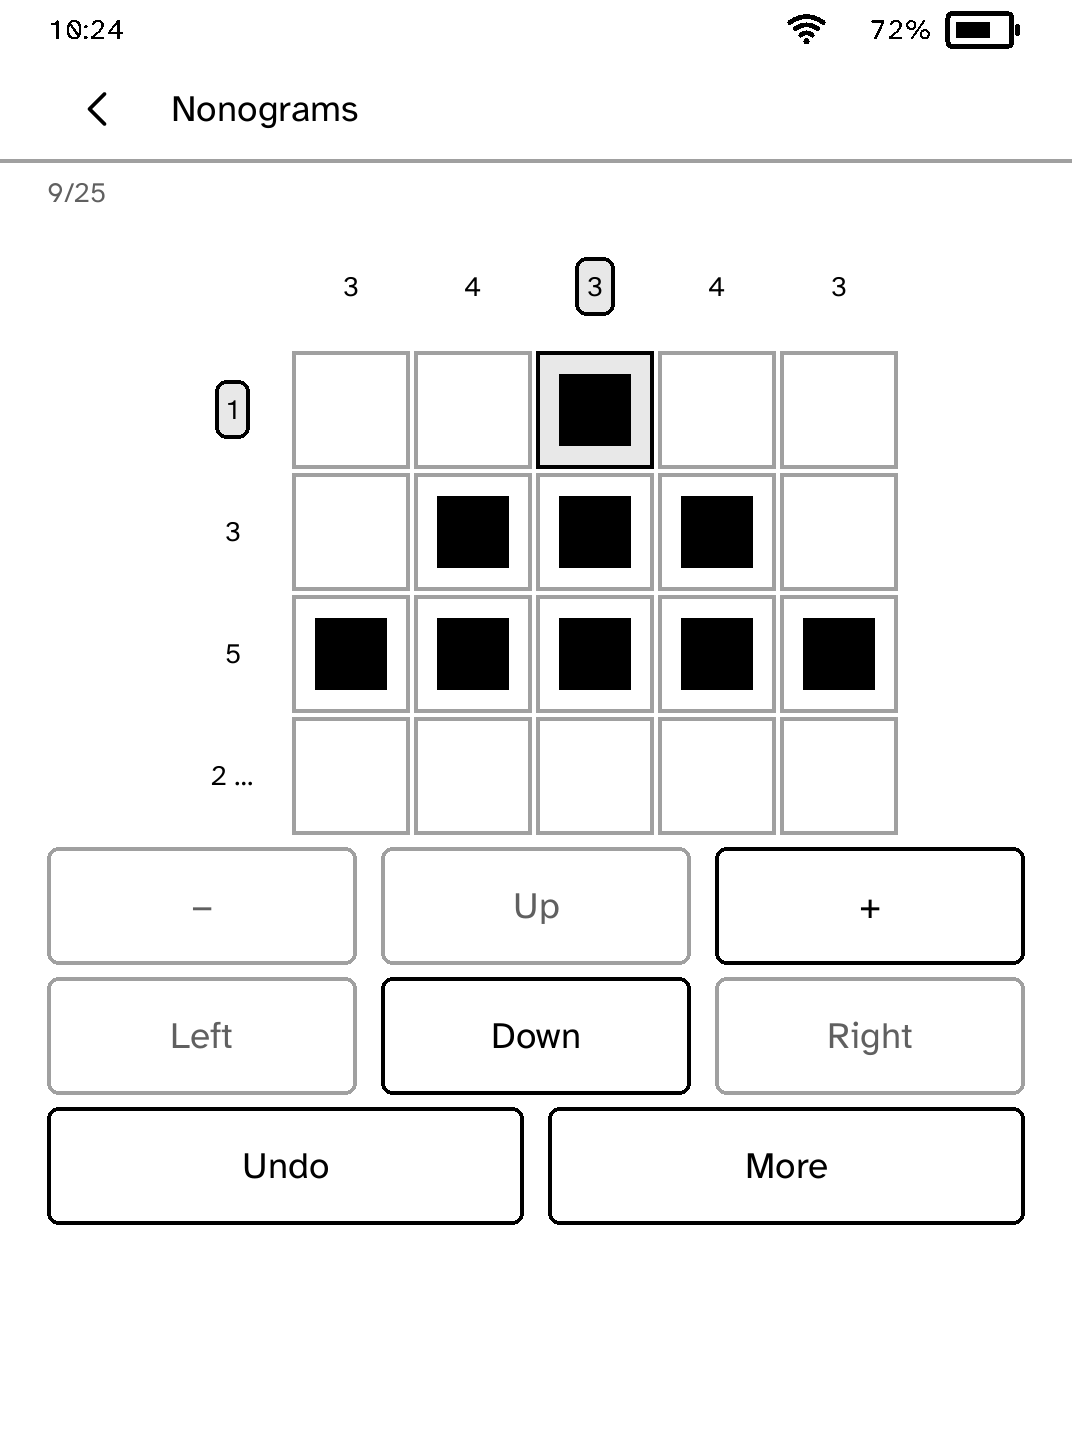
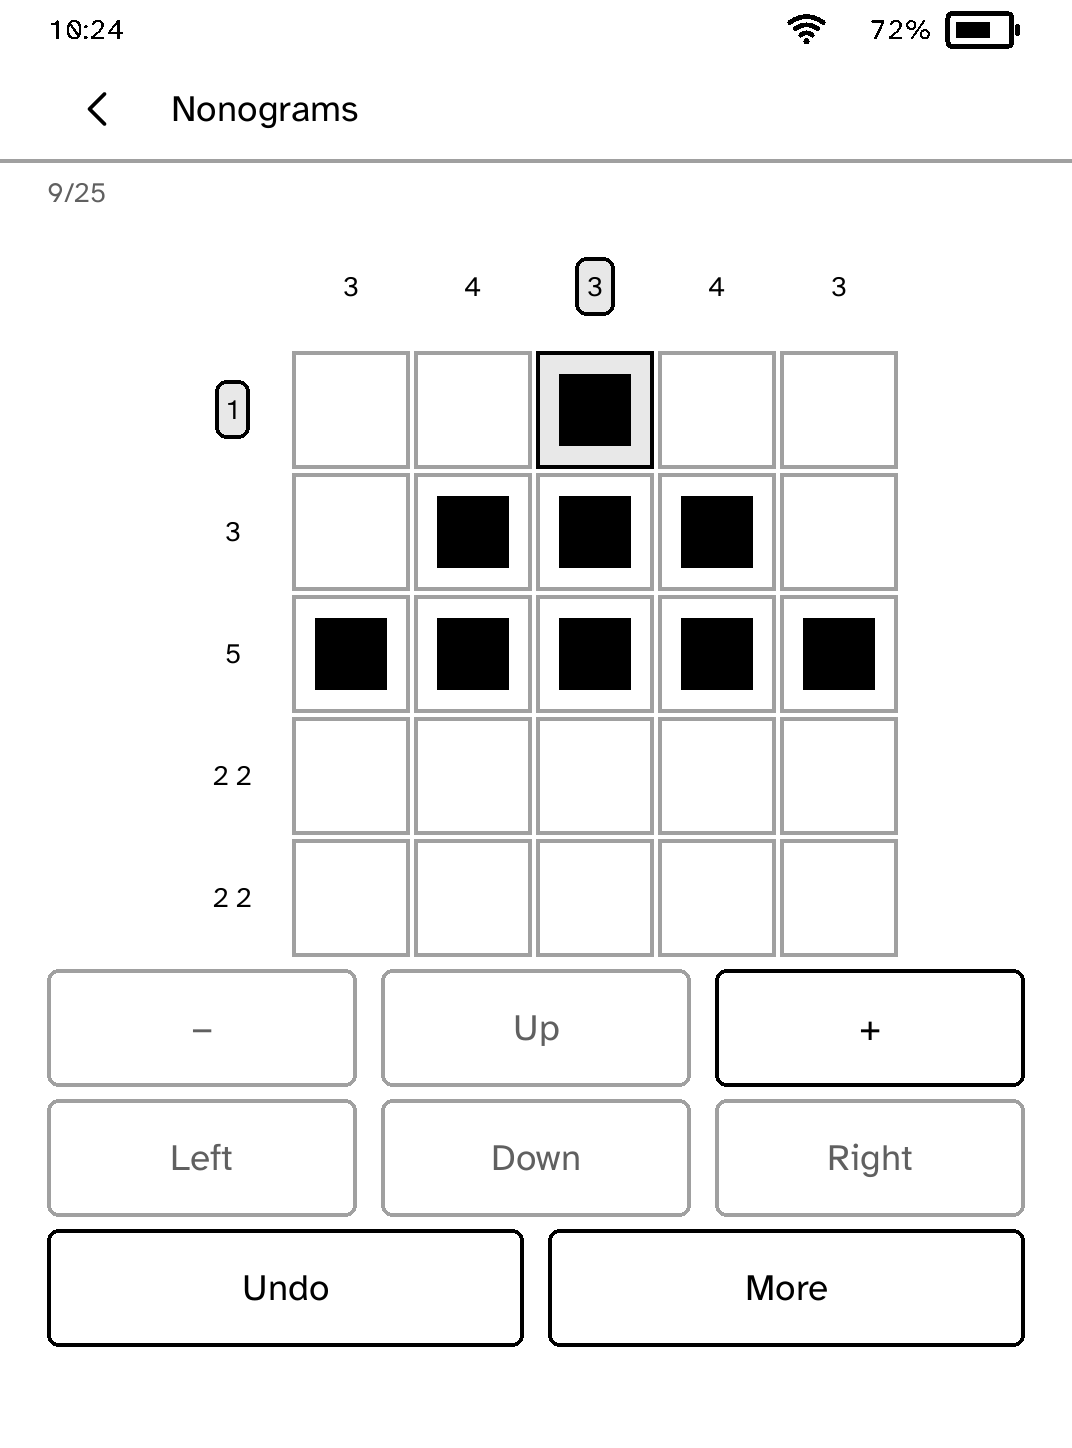
Show a small nonogram whole instead of hiding its last row
The board was given the room the controls leave less two Medium gaps, but a screen with a board is laid out with one Tight gap between nodes. A 5x5 picture on a Clara BW came up 14 pixels short, so it opened on four rows with Down enabled and a fifth of the panel empty under the controls. The board now costs one gap, and it is fitted against the tallest status line the header can show, so a status that wraps once the window is panned does not take a row away mid-puzzle.

The play screenshot and its site copies are retaken from the fixed build.

Changed region(s): [[0.0308, 0.5594, 0.9543, 0.9323], [0.9235, 0.9012, 0.9543, 0.9323]]

diff --git a/docs/apps/nonograms/index.html b/docs/apps/nonograms/index.html
@@ -21,7 +21,7 @@
 <meta name="twitter:description" content="Pan larger grids, inspect full clues and keep your marks and undo history when reopening. Install it on a supported Kobo e-reader with Cobalt.">
 <meta name="twitter:image" content="https://bandarlabs.github.io/Cobalt/media/site/apps/nonograms.png">
 <meta name="twitter:image:alt" content="A Nonograms puzzle with the selected square and its row and column clues highlighted.">
-<meta http-equiv="Content-Security-Policy" content="default-src 'none'; script-src 'self' 'sha256-/Sa+itYpOsIe7XI6OS6XrOaxU2d8rFrmfepQXt+wL18='; style-src 'self'; img-src 'self'; connect-src https://cobalt-install-relay.anandabhishek.workers.dev; base-uri 'none'; form-action 'self'">
+<meta http-equiv="Content-Security-Policy" content="default-src 'none'; script-src 'self' 'sha256-asAD2ivKL4bd8HbA92p5NczHi5wZugTkUiV3v4ywbaM='; style-src 'self'; img-src 'self'; connect-src https://cobalt-install-relay.anandabhishek.workers.dev; base-uri 'none'; form-action 'self'">
 <script type="application/ld+json">{
   "@context": "https://schema.org",
   "@graph": [
@@ -40,7 +40,7 @@
       "applicationSuite": "Cobalt",
       "applicationCategory": "GameApplication",
       "operatingSystem": "Cobalt on supported Kobo e-readers",
-      "softwareVersion": "0.1.15",
+      "softwareVersion": "0.1.16",
       "isAccessibleForFree": true,
       "offers": {
         "@type": "Offer",
@@ -99,7 +99,7 @@
       <h1>Nonograms</h1>
       <p class="summary">Pan larger grids, inspect full clues and keep your marks and undo history when reopening.</p>
       <dl class="facts">
-        <div><dt>Version</dt><dd>0.1.15</dd></div>
+        <div><dt>Version</dt><dd>0.1.16</dd></div>
         <div><dt>Permissions</dt><dd>No additional permissions</dd></div>
         <div><dt>Requires</dt><dd>Cobalt 0.3.32</dd></div>
       </dl>
@@ -119,8 +119,8 @@
     </div>
   </section>
   <section class="whats-new">
-    <h2>New in 0.1.15</h2>
-    <p>Commands to run on your computer are set on a grey panel in a fixed-width face and break only at spaces. Headings are a step smaller and hints a step larger.</p>
+    <h2>New in 0.1.16</h2>
+    <p>A small picture shows all of its rows at once instead of hiding the last one behind Down.</p>
   </section>
   <section class="panel prerequisites" aria-labelledby="prerequisites-title">
     <p class="eyebrow">App setup</p>

diff --git a/docs/index.html b/docs/index.html
@@ -663,7 +663,7 @@ footer nav { display: flex; gap: 22px; flex-wrap: wrap; }
         <p>Count rows, browse Ravelry collections, and read your synced patterns offline.</p>
       </div>
       <div class="app">
-        <a class="shot" href="apps/nonograms/"><picture><source type="image/webp" sizes="(max-width: 465px) calc(100vw - 36px), (max-width: 931px) 314px, 240px" srcset="media/site/app-thumbs/nonograms-480w-65cf55365cc7.webp 480w, media/site/app-thumbs/nonograms-800w-65cf55365cc7.webp 800w"><img src="media/site/apps/nonograms.png" width="1072" height="1448" loading="lazy" alt="A Nonograms puzzle with the selected square and its row and column clues highlighted."></picture></a>
+        <a class="shot" href="apps/nonograms/"><picture><source type="image/webp" sizes="(max-width: 465px) calc(100vw - 36px), (max-width: 931px) 314px, 240px" srcset="media/site/app-thumbs/nonograms-480w-d014520d7261.webp 480w, media/site/app-thumbs/nonograms-800w-d014520d7261.webp 800w"><img src="media/site/apps/nonograms.png" width="1072" height="1448" loading="lazy" alt="A Nonograms puzzle with the selected square and its row and column clues highlighted."></picture></a>
         <h3><a href="apps/nonograms/">Nonograms</a></h3>
         <p>Solve 78 picture and pattern puzzles, or make your own from photos.</p>
       </div>

diff --git a/apps/nonograms/src/view.rs b/apps/nonograms/src/view.rs
@@ -38,7 +38,7 @@ impl Game {
             },
         ))
     }
-    fn play_header(&self, wide: bool) -> ScreenBuilder {
+    fn play_status(&self) -> String {
         let side = self.puzzle().map_or(1, |puzzle| puzzle.side);
         // The focused square is visible on the board; the header carries
         // coordinates only when a zoomed window leaves the focus outside the
@@ -62,7 +62,7 @@ impl Game {
         } else {
             String::new()
         };
-        let status = match self.draft.status() {
+        match self.draft.status() {
             Status::Failed(_) => "Not saved · More to retry".into(),
             Status::Saving | Status::Unsaved => "Saving…".into(),
             Status::Saved if self.run_start.is_some() => "Tap the other end of the run".into(),
@@ -80,13 +80,33 @@ impl Game {
                     format!("{position} · {marked}/{total}")
                 }
             }
-        };
+        }
+    }
+    /// Every line the status can show on this board, the current one first.
+    ///
+    /// The board is fitted to the room the tallest of them leaves. Fitted to
+    /// the current line alone, a status that wraps once the window is panned
+    /// would take a row of squares away in the middle of a puzzle.
+    fn status_lines(&self) -> Vec<String> {
+        let side = self.puzzle().map_or(1, |puzzle| puzzle.side);
+        let total = side * side;
+        vec![
+            self.play_status(),
+            format!("Rows {side}–{side} · Cols {side}–{side} · {total}/{total}"),
+            "Not saved · More to retry".into(),
+            "Tap the other end of the run".into(),
+        ]
+    }
+    fn play_header_with(status: String, wide: bool) -> ScreenBuilder {
         let builder = ScreenBuilder::new("nonograms-play").top_bar("Nonograms");
         if wide {
             builder
         } else {
             builder.secondary(status)
         }
+    }
+    fn play_header(&self, wide: bool) -> ScreenBuilder {
+        Self::play_header_with(self.play_status(), wide)
     }
     fn play_tools(
         &self,
@@ -175,19 +195,26 @@ impl Game {
             metrics.height,
         )
         .ok()?;
-        let skeleton = self
-            .play_tools(
-                self.play_header(metrics.width > metrics.height),
-                &probe,
-                metrics.width > metrics.height,
-            )
-            .build();
+        let wide = metrics.width > metrics.height;
         // Measured as the board's screen is laid out, which is without the
-        // room the runtime leaves on a screen with no board in it.
-        let layout = kobo_sdk::with_room_given_up(|| {
-            skeleton.layout_with(&metrics, &Chrome::measuring(true))
-        });
-        let height = layout.content.height - layout.flow_height - metrics.space(Space::Medium) * 2;
+        // room the runtime leaves on a screen with no board in it. The board
+        // joins that flow as one more node, so it costs one more of the gaps
+        // between nodes and nothing else. Taking two Medium gaps here cost a
+        // 5x5 picture its last row on a Clara BW, with a fifth of the panel
+        // left empty under the controls.
+        let height = self
+            .status_lines()
+            .into_iter()
+            .map(|status| {
+                let skeleton = self
+                    .play_tools(Self::play_header_with(status, wide), &probe, wide)
+                    .build();
+                let layout = kobo_sdk::with_room_given_up(|| {
+                    skeleton.layout_with(&metrics, &Chrome::measuring(true))
+                });
+                layout.content.height - layout.flow_height - metrics.space(Space::Tight)
+            })
+            .min()?;
         let mut view = self.viewport.clone().unwrap_or(probe);
         // Reflow only for the allocated space. Retain a panned window even when
         // its previously selected square is now outside the window.

diff --git a/apps/nonograms/src/quality_tests.rs b/apps/nonograms/src/quality_tests.rs
@@ -432,3 +432,25 @@ fn checking_and_run_entry_are_switches_that_show_how_they_are_set() {
         [("Guided".to_owned(), true), ("Run entry".to_owned(), true)]
     );
 }
+#[test]
+fn a_five_by_five_picture_shows_every_square_at_once_on_a_clara_bw() {
+    let metrics = DisplayMetrics {
+        width: 1072,
+        height: 1448,
+        pixels_per_inch: 300,
+        text_scale: TextScale::default(),
+    };
+    let context = AppRunner::with_metrics(Game::default(), metrics).context();
+    let mut game = Game::default();
+    game.select(&mut Context::default(), 0);
+    let (board, clues) = game.ink_board().unwrap();
+    assert_eq!((board.rows(), board.columns()), (5, 5));
+    let view = game.fitted_view(&context, &board, &clues).unwrap();
+    assert_eq!(view.cells().count(), 25, "{:?}", view.visible_rows());
+    game.viewport = Some(view);
+    let screen = game.play(&context).with_own_back(true);
+    let issues = screen
+        .diagnostics(&metrics, &Chrome::measuring(true))
+        .issues;
+    assert!(issues.is_empty(), "{issues:?}");
+}
